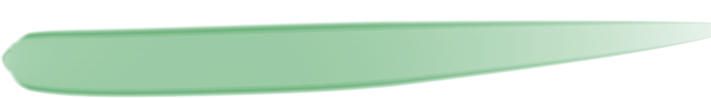
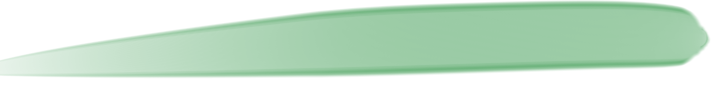
changes oil-portrait, OilTitle, StylesTitle

diff --git a/src/components/Pages/OilPortrait/oil-portrait.jsx b/src/components/Pages/OilPortrait/oil-portrait.jsx
@@ -16,14 +16,20 @@ import {
   FirstButton,
   SecondButton,
 } from "./styled";
+
+import { useState } from "react";
 import { useTranslation } from "react-i18next";
+import OilTitle from "./OilTitle/OilTitle";
+import Modal from "../../../components/Modal/modal";
 
 const OilPortrait = () => {
   const { t } = useTranslation();
+  const [modalActive, setModalActive] = useState(false);
   return (
     <OilPortraitWrapper>
       <OilPortraitGeneral>
-        <OilPortraitTitle>Классический портрет маслом</OilPortraitTitle>
+        <OilTitle />
+        {/* <OilPortraitTitle>Классический портрет маслом</OilPortraitTitle> */}
         <OilContent>
           <OilContent2>
             <OilContentPhoto>
@@ -64,17 +70,41 @@ const OilPortrait = () => {
                   <FirstButton>Смотреть все работы</FirstButton>
                 </Box>
                 <Box>
-                  <SecondButton>{t("mainPage.button")}</SecondButton>
+                  <SecondButton onClick={() => setModalActive(true)}>
+                    {t("mainPage.button")}
+                  </SecondButton>
                 </Box>
 
-                {/* <div className="main-button">
-                  <button
-                    className="front-page1__button"
-                    onClick={() => setModalActive(true)}
-                  >
-                    {t("mainPage.button")}
-                  </button>
-                </div> */}
+                <Modal active={modalActive} setActive={setModalActive}>
+                  <div className="modal__title">
+                    Выберите мессенджер, в котором вам будет удобно вести диалог
+                  </div>
+                  <div className="modal__messenger">
+                    <div className="modal-messenger__content">
+                      <a
+                        href="https://api.whatsapp.com/send/?phone=79933600710&text&type=phone_number&app_absent=0"
+                        target="blank"
+                      >
+                        <img
+                          className="modal-icons"
+                          src="/images/modal-icons/whatsapp.svg"
+                        />
+                      </a>
+                      <a href="https://t.me/kot_vangog" target="blank">
+                        <img
+                          className="modal-icons"
+                          src="/images/modal-icons/telegram.svg"
+                        />
+                      </a>
+                      <a href="https://vk.com/lubov0011" target="blank">
+                        <img
+                          className="modal-icons"
+                          src="/images/modal-icons/vk.svg"
+                        />
+                      </a>
+                    </div>
+                  </div>
+                </Modal>
               </ButtonContainer>
             </OilContentDescription>
           </OilContent2>

diff --git a/src/components/Pages/OilPortrait/styled.js b/src/components/Pages/OilPortrait/styled.js
@@ -16,19 +16,14 @@ export const OilPortraitGeneral = styled(Box)`
   padding-top: 20px;
 `;
 
-export const OilPortraitTitle = styled(Box)`
-  font-size: 24px;
-  font-family: "Palatino Linotype";
-  font-weight: 500;
-  text-align: center;
-  margin-bottom: 30px;
-`;
-
-// export const OilContentMain = styled(Box)`
-//   display: flex;
-//   flex-direction: row;
-//   justify-content: center;
+// export const OilPortraitTitle = styled(Box)`
+//   font-size: 24px;
+//   font-family: "Palatino Linotype";
+//   font-weight: 500;
+//   text-align: center;
+//   margin-bottom: 30px;
 // `;
+
 export const OilContent = styled(Box)`
   display: flex;
   justify-content: center;
@@ -57,7 +52,7 @@ export const Ellipse = styled(Box)`
   z-index: 1;
   top: 50%;
   left: 50%;
-  transform: translate(-50%, -65%) rotate(5deg);
+  transform: translate(-50%, -60%) rotate(5deg);
   width: 550px; /* Задайте свои размеры */
   height: 170px; /* Задайте свои размеры */
   background-color: rgba(190, 190, 190, 0.5); /* Задайте свою прозрачность */

diff --git a/src/components/Pages/OilPortrait/OIlTitle.jsx b/src/components/Pages/OilPortrait/OIlTitle.jsx
@@ -1,0 +1,23 @@
+import "./title-styled.js";
+import {
+  OilTitleBackground,
+  OilTitleWrapper,
+  OilPortraitTitle,
+  OilTitleBackgroundImage,
+} from "./title-styled.js";
+
+const OilTitle = () => {
+  return (
+    <OilTitleWrapper>
+      <div className="oil__title-first">
+        <OilPortraitTitle>
+          <OilTitleBackground>
+            <OilTitleBackgroundImage src="/images/background/Фон заголовок2 — копия.png"></OilTitleBackgroundImage>
+          </OilTitleBackground>
+        </OilPortraitTitle>
+      </div>
+    </OilTitleWrapper>
+  );
+};
+
+export default OilTitle;

diff --git a/src/components/Pages/OilPortrait/OilTitle/OilTitle.jsx b/src/components/Pages/OilPortrait/OilTitle/OilTitle.jsx
@@ -1,0 +1,19 @@
+import "./oil.css";
+
+const OilTitle = () => {
+  return (
+    <div className="oil__title-wrapper">
+      <div className="oil__title-first">
+        <div className="oil__title">Классический портрет маслом</div>
+        <div className="oil-page__title-background">
+          <img
+            className="oil__title-background-image"
+            src="/images/background/Фон заголовок2 — копия.png"
+          />
+        </div>
+      </div>
+    </div>
+  );
+};
+
+export default OilTitle;

diff --git a/src/components/Pages/OilPortrait/title-styled.js b/src/components/Pages/OilPortrait/title-styled.js
@@ -1,0 +1,19 @@
+import { Box } from "@mui/material";
+import styled from "styled-components";
+
+export const OilTitleWrapper = styled(Box)`
+  display: flex;
+  flex-direction: row;
+  justify-content: center;
+`;
+export const OilTitleBackground = styled(Box)`
+  position: relative;
+  bottom: 30px;
+  justify-content: center;
+  display: flex;
+`;
+
+export const OilTitleBackgroundImage = styled(Box)`
+  width: 350px;
+  height: 40px;
+`;

diff --git a/src/components/Pages/OilPortrait/OilTitle/oil.css b/src/components/Pages/OilPortrait/OilTitle/oil.css
@@ -1,0 +1,25 @@
+.oil__title-wrapper {
+  display: flex;
+  flex-wrap: wrap;
+  flex-direction: row;
+  justify-content: center;
+}
+
+.oil-page__title-background {
+  position: relative;
+  justify-content: center;
+  display: flex;
+  bottom: 30px;
+}
+
+.oil__title-background-image {
+  width: 400px;
+  height: 40px;
+}
+
+.oil__title {
+  font-size: 24px;
+  font-family: "Palatino Linotype";
+  font-weight: 500;
+  text-align: center;
+}

diff --git a/src/components/Pages/AdvantagesPage/AdvantagesTitle.jsx b/src/components/Pages/AdvantagesPage/AdvantagesTitle.jsx
@@ -12,7 +12,7 @@ const AdvantagesTitle = () => {
         <div className="advantages-page__title-background">
           <img
             className="advantages-page__title-background-image"
-            src="/images/background/Фон заголовок2.png"
+            src="/images/background/Фон заголовок2 — копия.png"
           />
         </div>
       </div>

diff --git a/src/components/Pages/StylesPage/StylesTitle.css b/src/components/Pages/StylesPage/StylesTitle.css
@@ -6,12 +6,12 @@
 
 .styles-page__title-background {
   position: relative;
-  bottom: 30px;
+  bottom: 35px;
   justify-content: center;
   display: flex;
 }
 
 .styles-page__title-background-image {
-  width: 350px;
-  height: 40px;
+  width: 280px;
+  height: 45px;
 }
